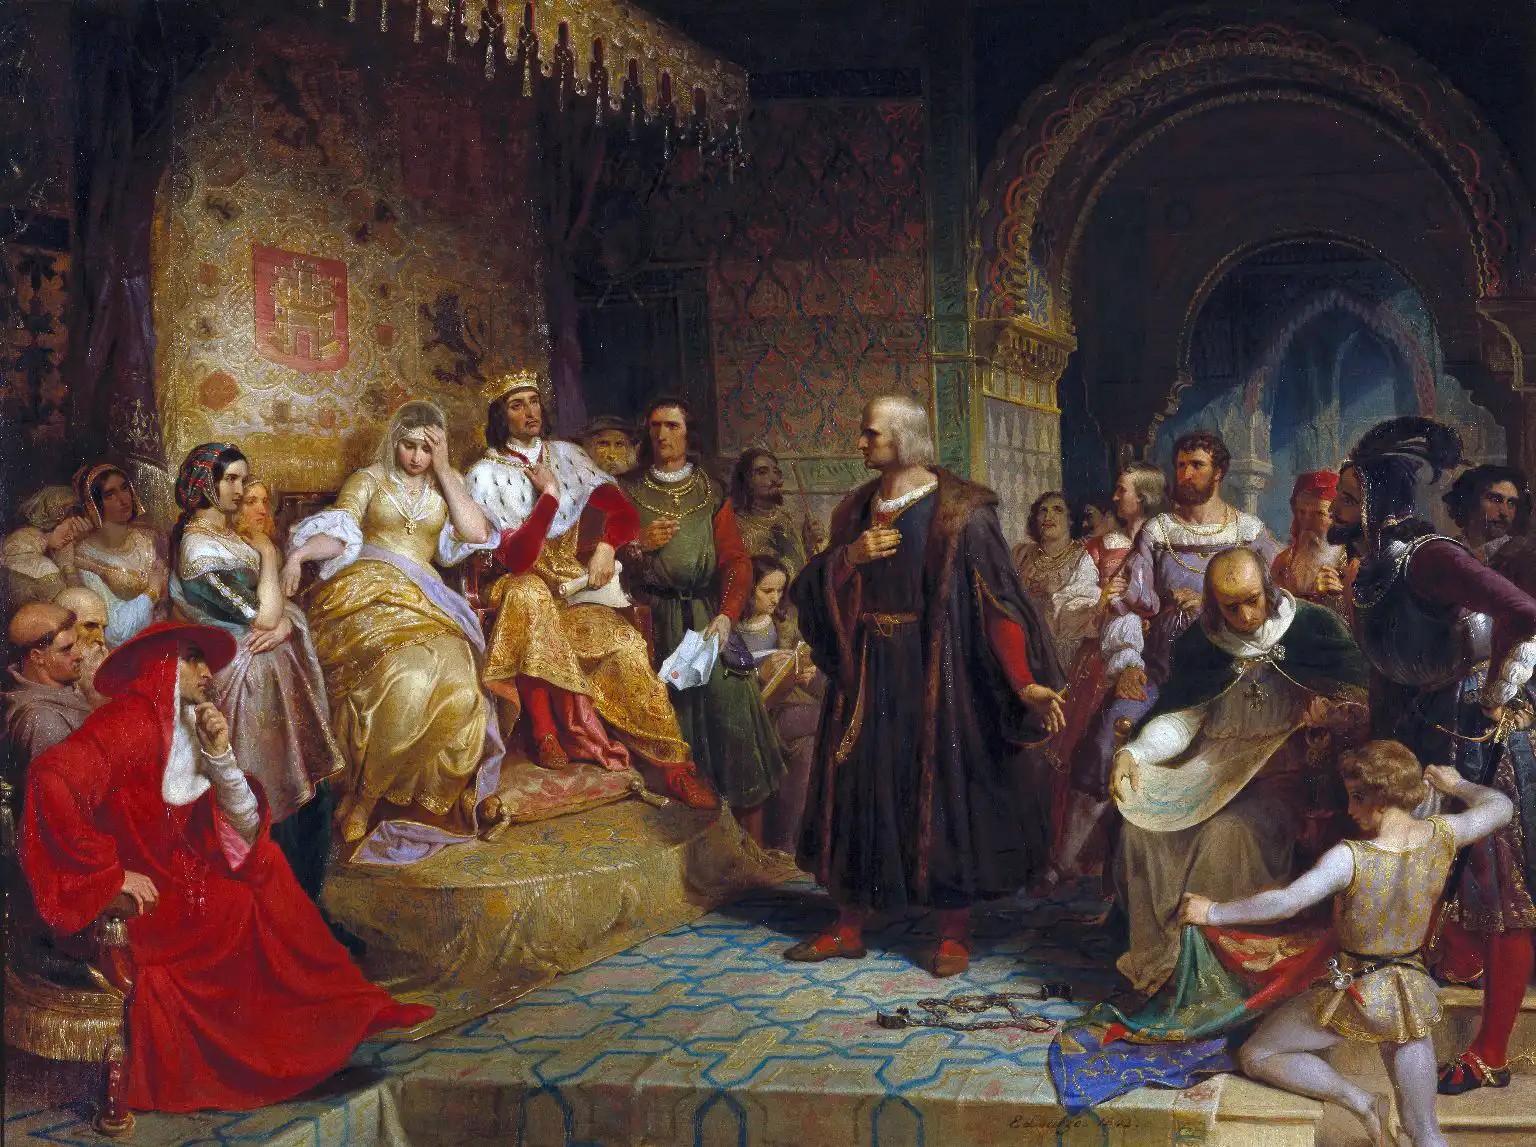
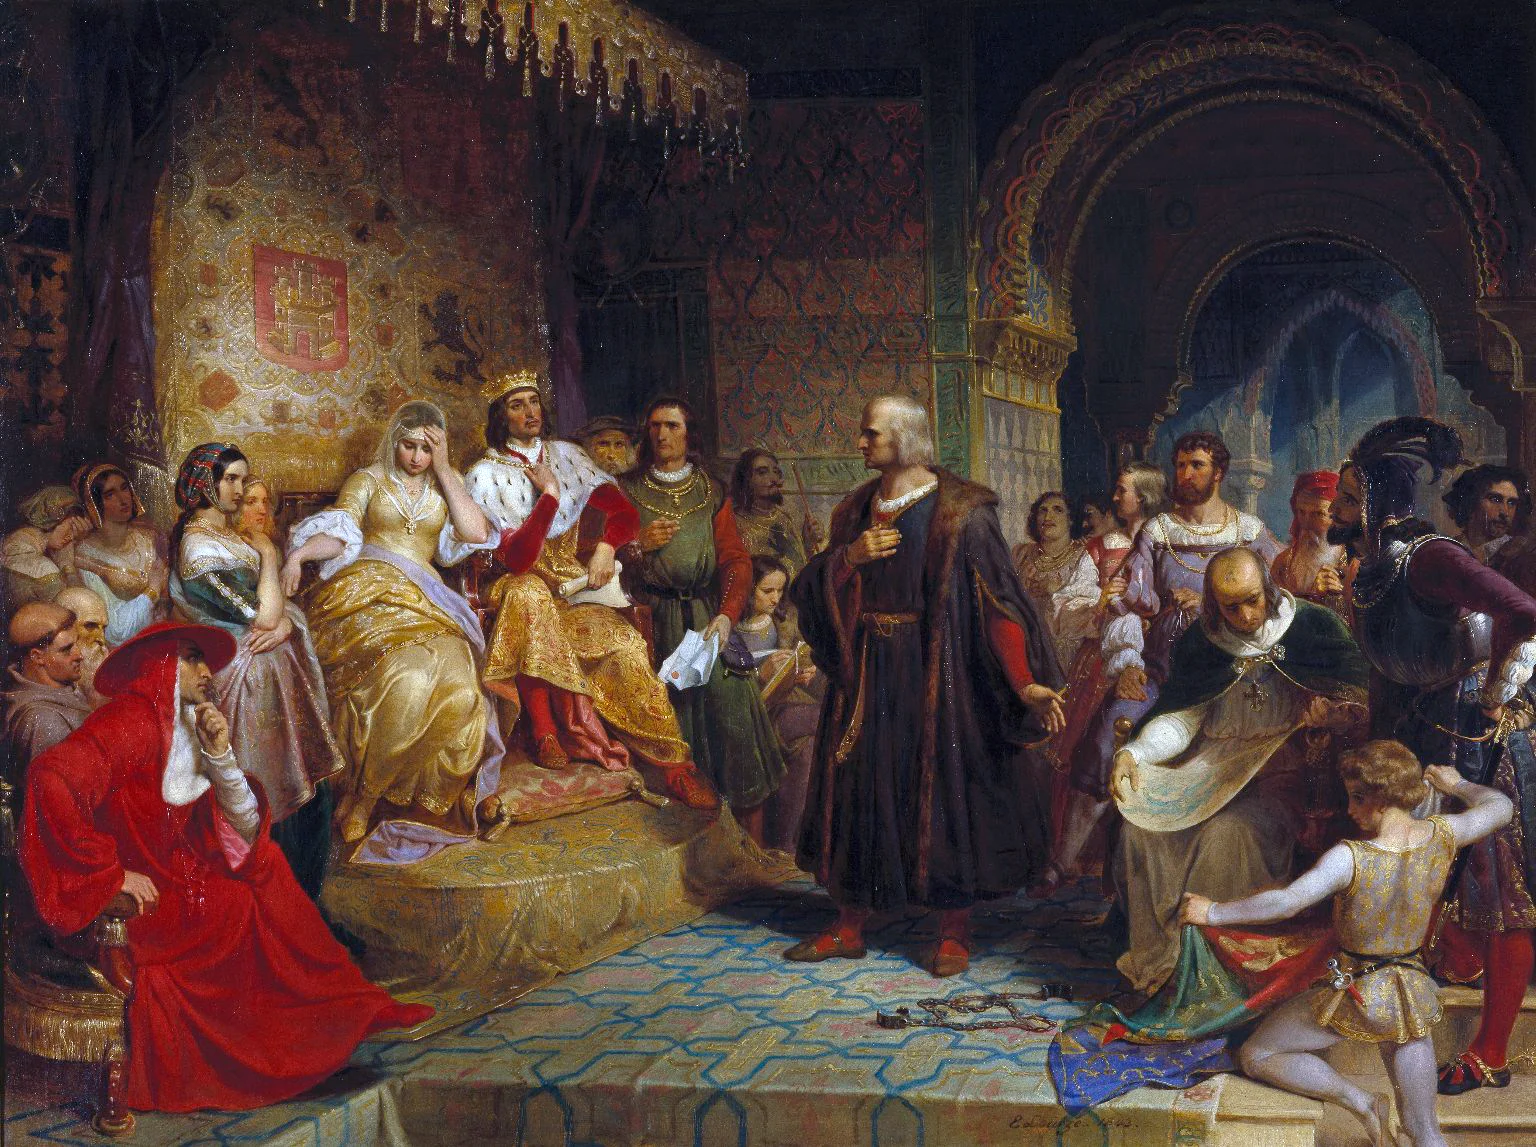
Update 1035 • 09/08/25
Files changed:
docs/assets/images/banners/columbus-before-the-queen.webp
docs/index.html
docs/scripts/parallax.js
docs/style/style.css

diff --git a/docs/scripts/parallax.js b/docs/scripts/parallax.js
@@ -1,4 +1,4 @@
-/*v1.2 2025-08-09T19:13:56.935Z*/
+/*v1.3 2025-08-09T20:39:21.681Z*/
 document.addEventListener("DOMContentLoaded", () => {
   const parallaxElements = document.querySelectorAll(".parallax-vertical, .parallax-horizontal");
 
@@ -12,15 +12,21 @@ document.addEventListener("DOMContentLoaded", () => {
 
       const speed = parseFloat(el.dataset.speed) || 0.3;
       const crossSpeed = speed * 0.1; // 10% dello speed
+      
+      // Calcolo zoom: aumenta con la distanza dal centro
+      const zoomFactor = 1 + Math.min(Math.abs(offsetFromCenter) / viewportHeight, 0.5) * 0.2;
+      // ↑ max 20% di zoom quando l’elemento è molto lontano dal centro
 
       if (el.classList.contains("parallax-vertical")) {
-        el.style.backgroundPosition = 
+        el.style.backgroundPosition =
           `calc(50% + ${-offsetFromCenter * crossSpeed}px) calc(50% + ${-offsetFromCenter * speed}px)`;
       } 
       else if (el.classList.contains("parallax-horizontal")) {
-        el.style.backgroundPosition = 
+        el.style.backgroundPosition =
           `calc(50% + ${-offsetFromCenter * speed}px) calc(50% + ${-offsetFromCenter * crossSpeed}px)`;
       }
+
+      el.style.backgroundSize = `${zoomFactor * 100}% auto`; // zoom dinamico
     });
   });
 });

diff --git a/docs/style/style.css b/docs/style/style.css
@@ -1,4 +1,4 @@
-/*v2.89 2025-08-09T15:34:45.968Z*/
+/*v2.90 2025-08-09T20:41:28.149Z*/
 
 /*=============================================
 =            IMPORTS & VARIABLES              =
@@ -914,6 +914,26 @@ body#home-page {
         url(/assets/textures/antique-gold-1.jpg);
     display: inline-block;
     filter: drop-shadow(2px 0px 5px black);
+}
+.banner-parallax-painting::before {
+    content: "—" attr(data-title);
+    font-family: 'IM Fell English';
+    font-size: 1rem;
+    color: var(--pale-beige);
+    background: rgba(var(--background-dark-1-rgb), 0.3);
+    width: auto;
+    height: 2rem;
+    position: absolute;
+    bottom: 1rem;
+    right: 2rem;
+    display: flex;
+    align-items: center;
+    padding: 1rem 1.5rem;
+    /* border-radius: 10px; */
+    border: 1px solid var(--deep-charcoal);
+    filter: drop-shadow(0px 0px 3px black);
+    backdrop-filter: blur(5px);
+    -webkit-backdrop-filter: blur(5px);
 }
 
 @media (max-width: 767px) {

diff --git a/docs/index.html b/docs/index.html
@@ -1,4 +1,4 @@
-<!-- v1.66 2025-08-09T15:35:28.663Z -->
+<!-- v1.67 2025-08-09T20:37:45.002Z -->
 
 <!DOCTYPE html>
 <html lang="en" data-env="github" class="preload">
@@ -355,7 +355,7 @@
     <!-- Banner 2-->
     <div class="banner-wrapper">
       <div class="painting-frame">
-        <div class="banner-parallax-painting parallax-vertical" data-speed="0.2"
+        <div class="banner-parallax-painting parallax-vertical" data-title="&quot;Columbus Before the Queen&quot; (1834), Emanuel Leutze" data-speed="0.2"
           style="background-image: url('assets/images/banners/columbus-before-the-queen.webp'); height: 500px;"
           alt="Columbus Before the Queen">
         </div>
